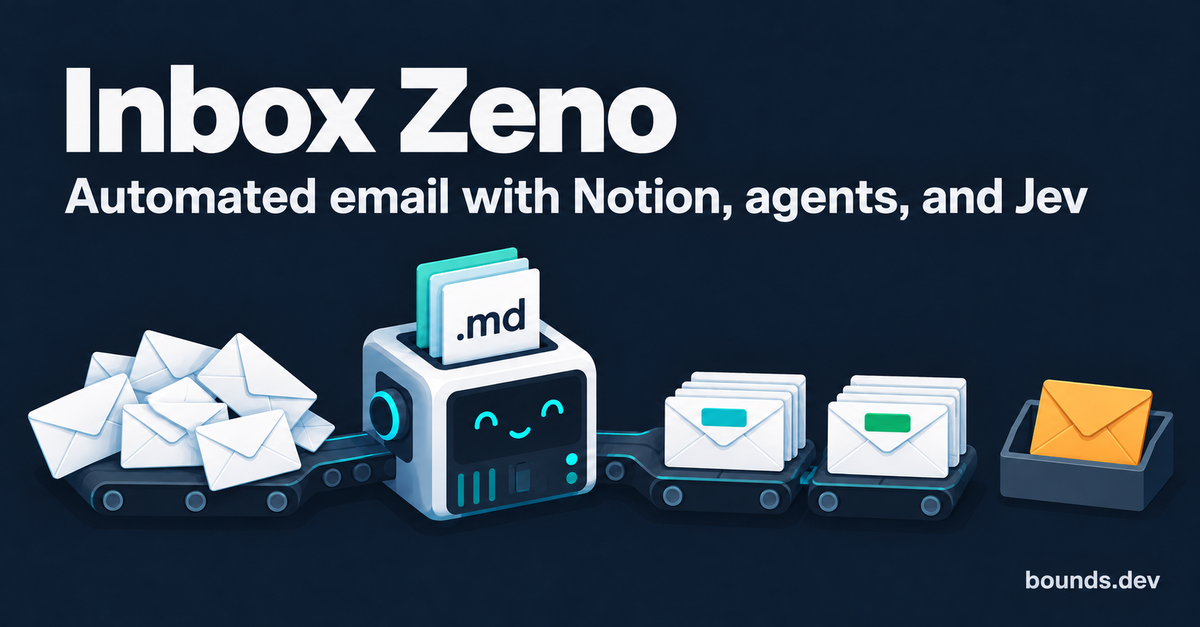
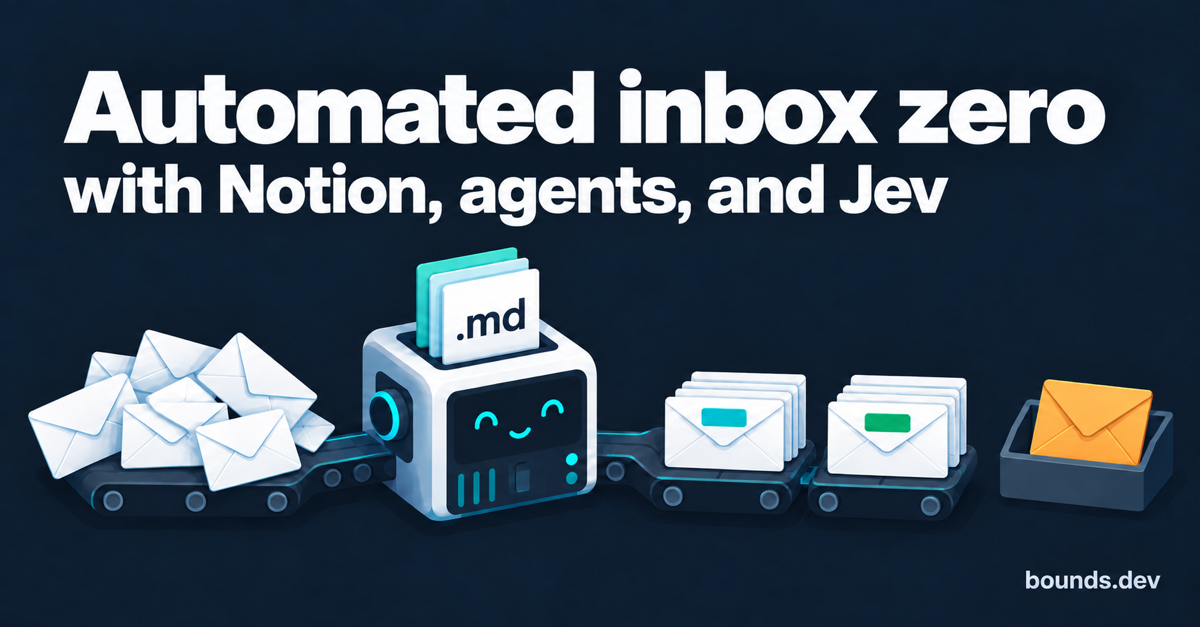
Update inbox article title, social card, and URL

diff --git a/content/posts/my-inbox-is-a-git-repo-now/index.md b/content/posts/my-inbox-is-a-git-repo-now/index.md
@@ -1,5 +1,7 @@
 ---
-title: "Inbox Zeno: Automated email with Notion, agents, and Jev"
+title: "Automated inbox zero with Notion, agents, and Jev"
+slug: "automated-inbox-zero-with-notion-agents-and-jev"
+aliases: ["/posts/my-inbox-is-a-git-repo-now/"]
 date: 2026-09-19T21:47:14-07:00
 draft: false
 description: "How I automated inbox zero with Notion and agents, using TypeSafe’s Jev to cut email label classification costs from $7.20 to $0.13 per 1,000 emails."
